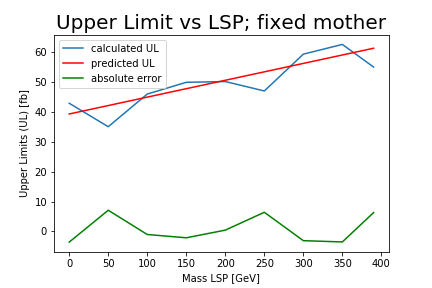
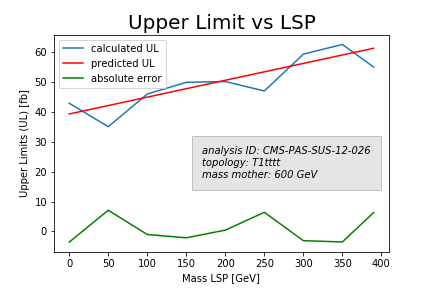
minor fixes

Changed region(s): [[0.4213, 0.4688, 0.9028, 0.6875], [0.1204, 0.0312, 0.9028, 0.125]]

diff --git a/drawtorch.py b/drawtorch.py
@@ -115,9 +115,12 @@ plt.savefig("analysis/plots/heatdiff.png")
 
 ###the curves next to each other for one lsp(slice)
 plt.figure(1)         
-plt.title(r'Upper Limit vs LSP; fixed mother', fontsize=20)
+plt.title(r'Upper Limit vs LSP', fontsize=20)
+plt.text(170, 18, 'analysis ID: ' + str(ANALYSIS_ID) + '\ntopology: ' + str(TXNAME) + '\nmass mother: 600 GeV', style='italic',
+        bbox={'facecolor':'gray', 'alpha':0.2, 'pad':10})
 plt.xlabel('Mass LSP [GeV]')
 plt.ylabel('Upper Limits (UL) [fb]')
+print(Heat_calc[20])
 plt.plot([i*10 for i in range(40)], Heat_calc[20], label = 'calculated UL')
 plt.plot([i*10 for i in range(40)], Heat_pred[20], c = 'r', label = 'predicted UL')
 plt.plot([i*10 for i in range(40)], Heat_diff[20], c = 'g', label = 'absolute error')
